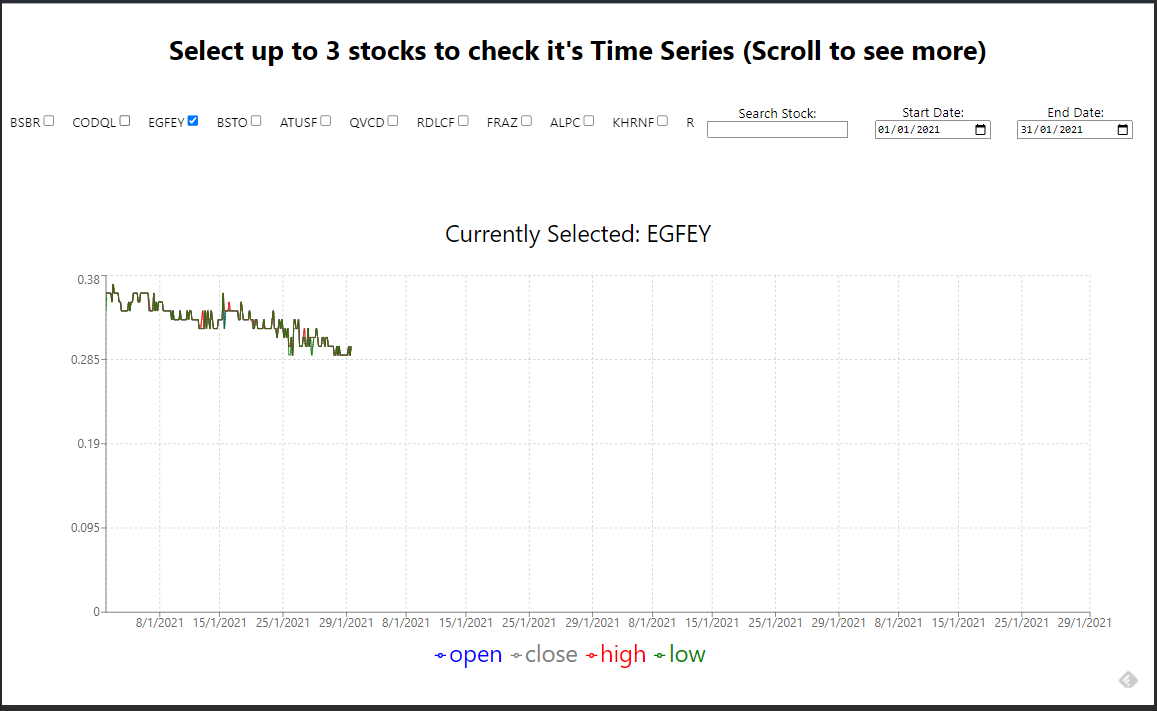
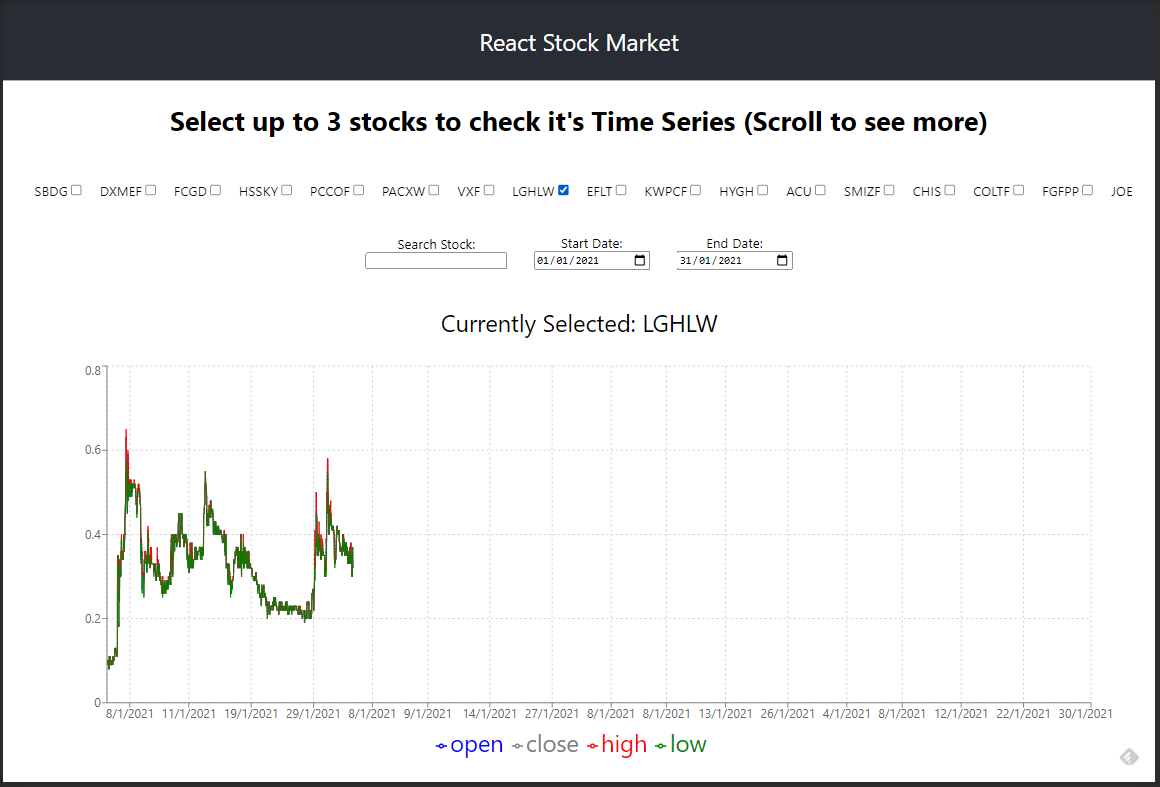
feature: style fixes

diff --git a/src/App.css b/src/App.css
@@ -28,15 +28,15 @@
 
 .App-stocks-selection {
   display: flex;
-  flex-direction: row;
+  flex-direction: column;
   width: 100%;
 }
 
 .stocks-selection {
-  width: 60%;
   display: flex;
   flex-direction: row;
   overflow: scroll;
+  margin: 0 1em;
 }
 
 .stock-details {
@@ -58,7 +58,7 @@
   flex-direction: column;
   font-size: calc(10px + 2vmin);
   justify-content: center;
-  min-height: 70vh;
+  min-height: 60vh;
 }
 
 .date-selection {
